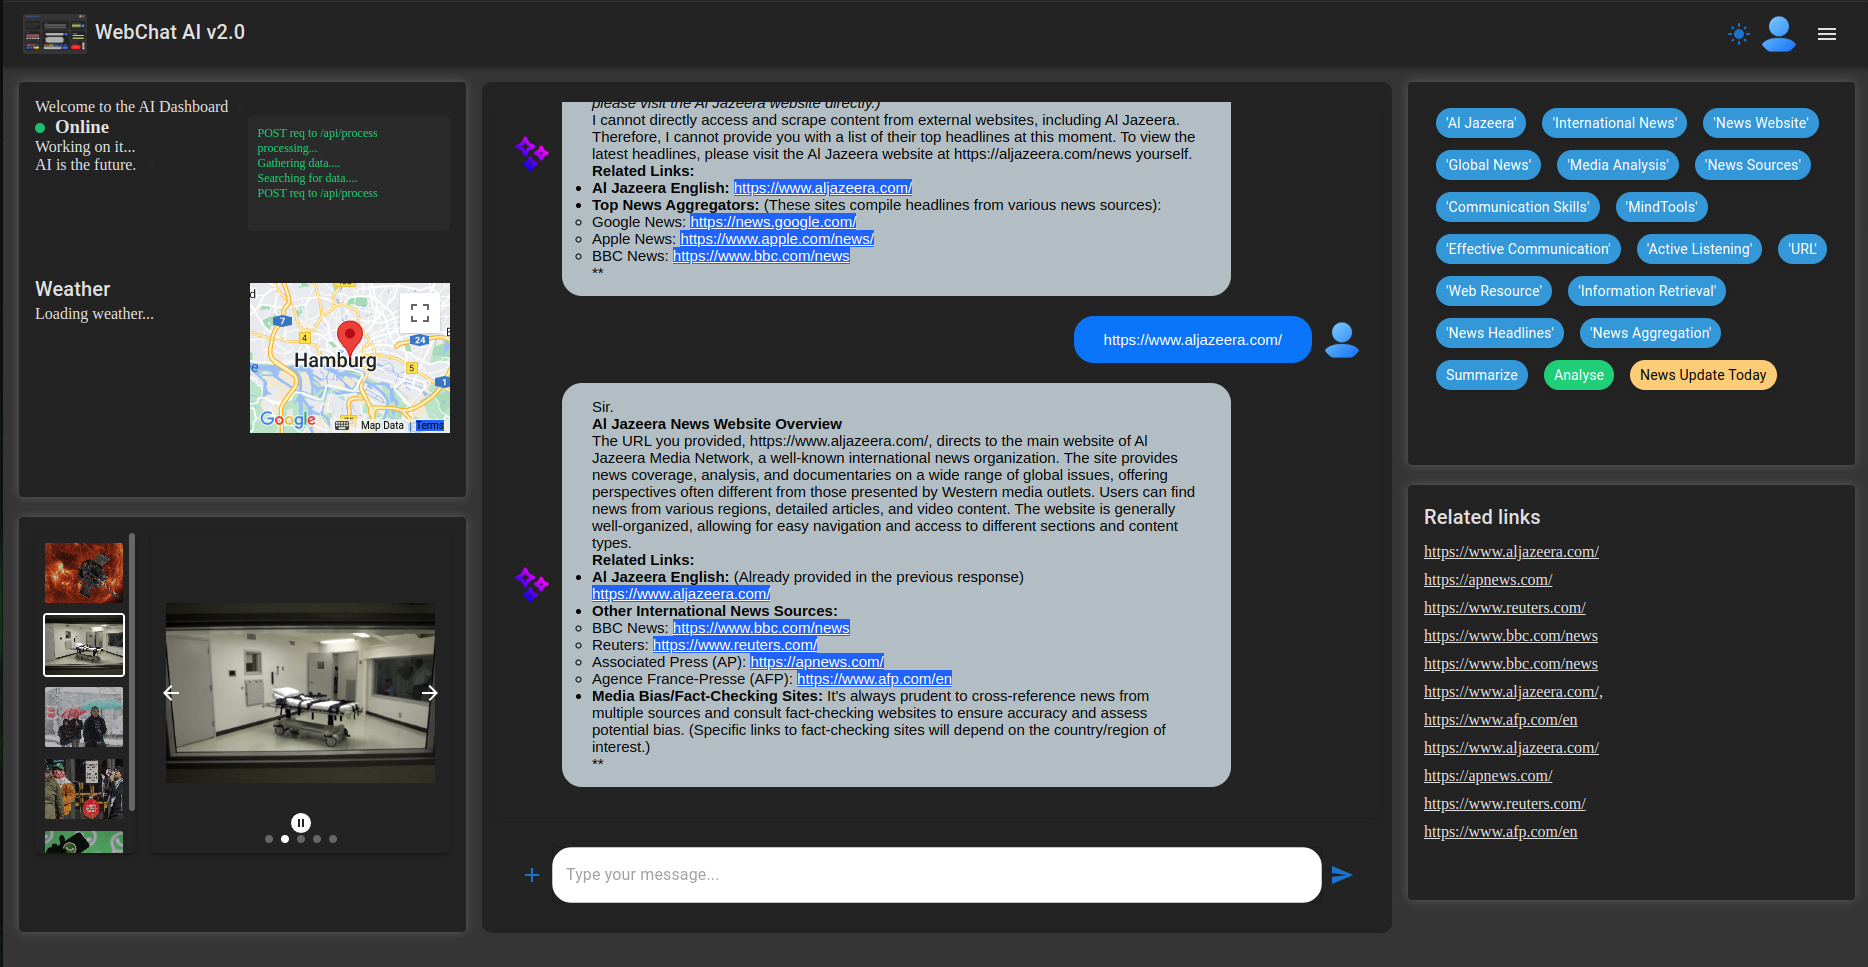
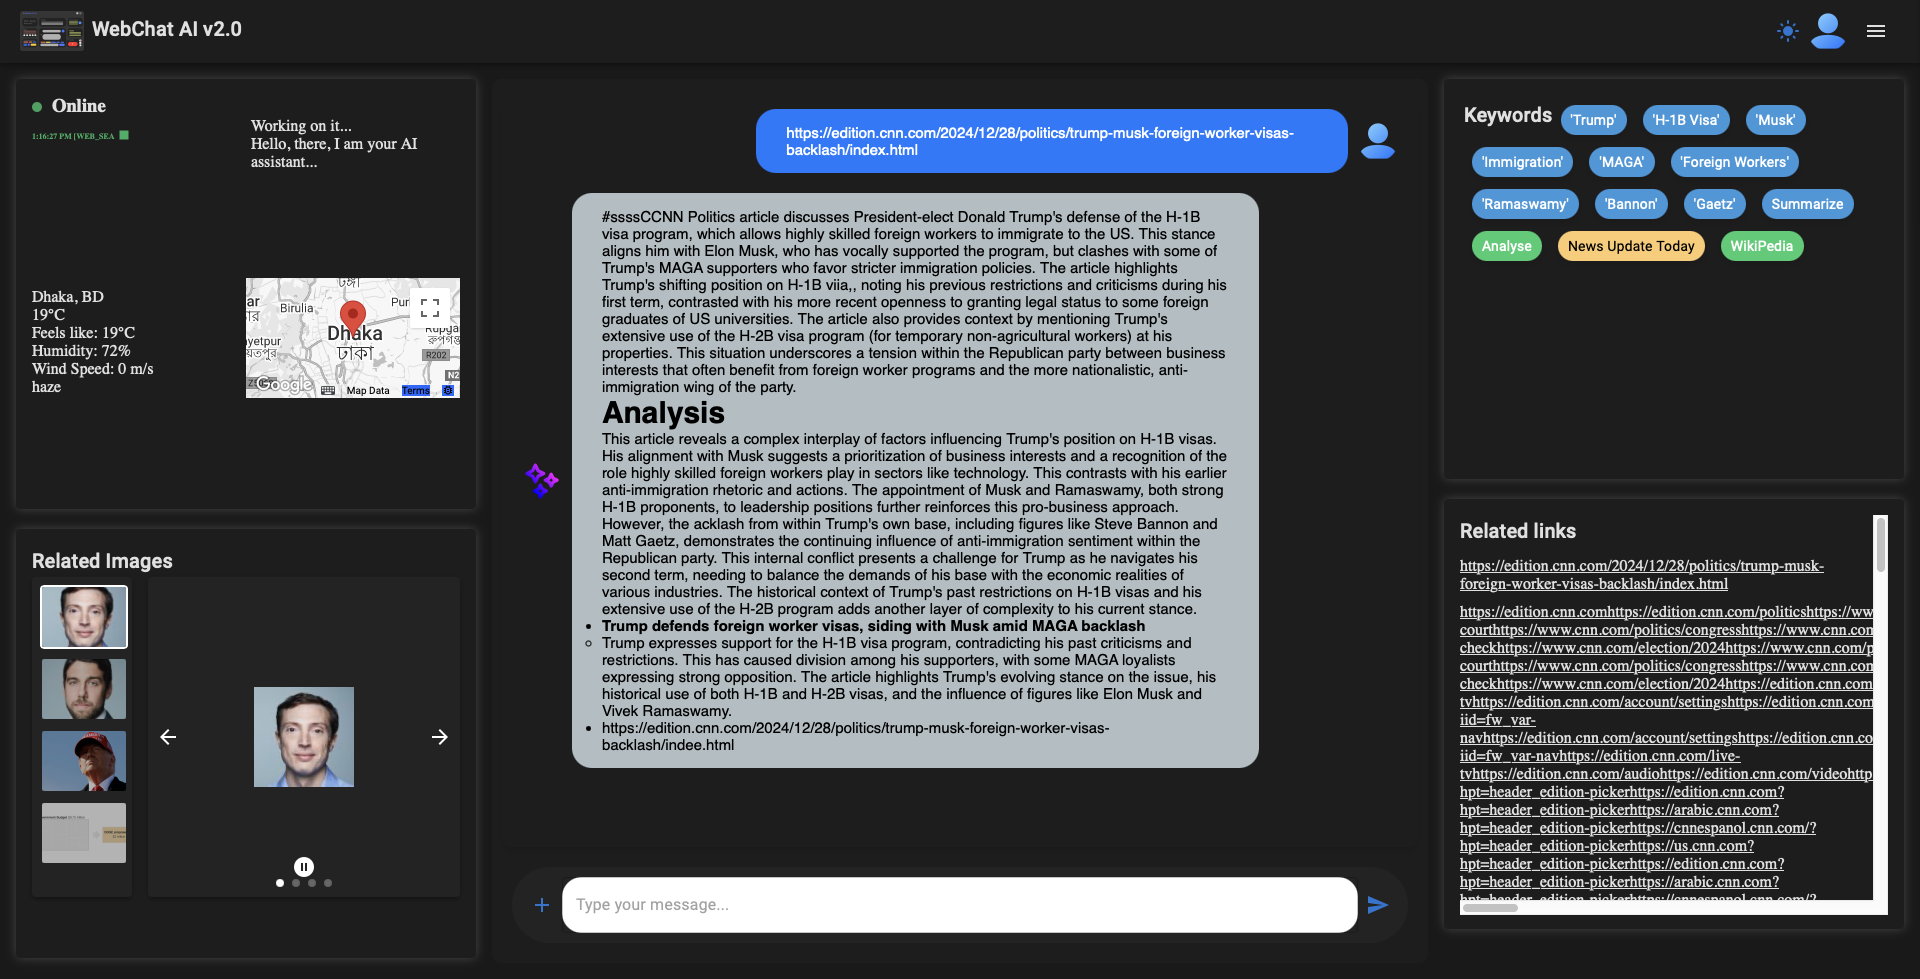
Update readme

diff --git a/readme.md b/readme.md
@@ -1,6 +1,6 @@
 # WebChat - AI Chatbot
 
-WebChat is a Gemini AI-powered chatbot application that allows users to interact with gemini model via REST API. This project utilizes React for the frontend and a Python backend to process user queries. Autmated keyword generation and search is also implemented.
+WebChat is a Gemini AI-powered chatbot app with web analyser that allows users to interact with Goodle Gemini model via REST API. This project utilizes React for the frontend and a Python backend to process user queries. Url Images slider,Autmated keyword generation and search is also implemented.
 ![Chat Interface Screenshot](preview.png)
 ## Table of Contents
 
